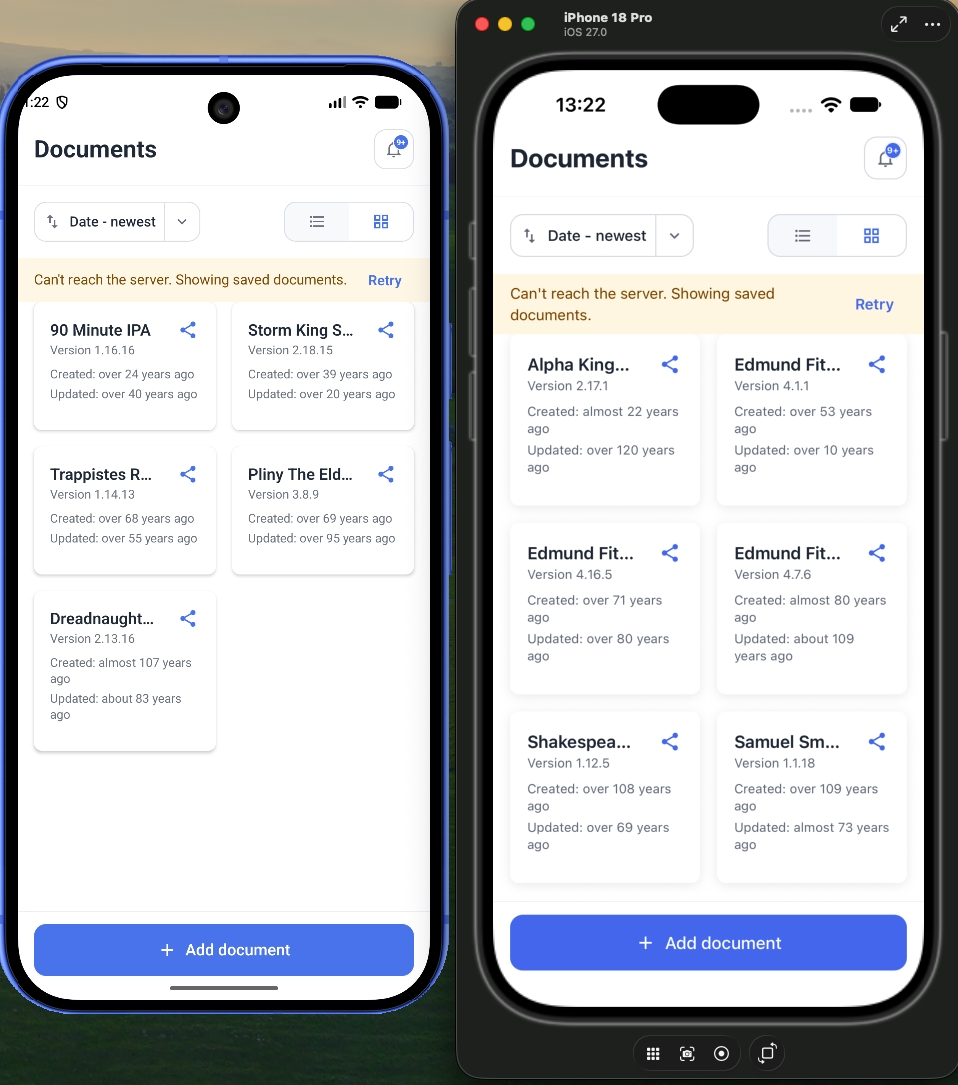
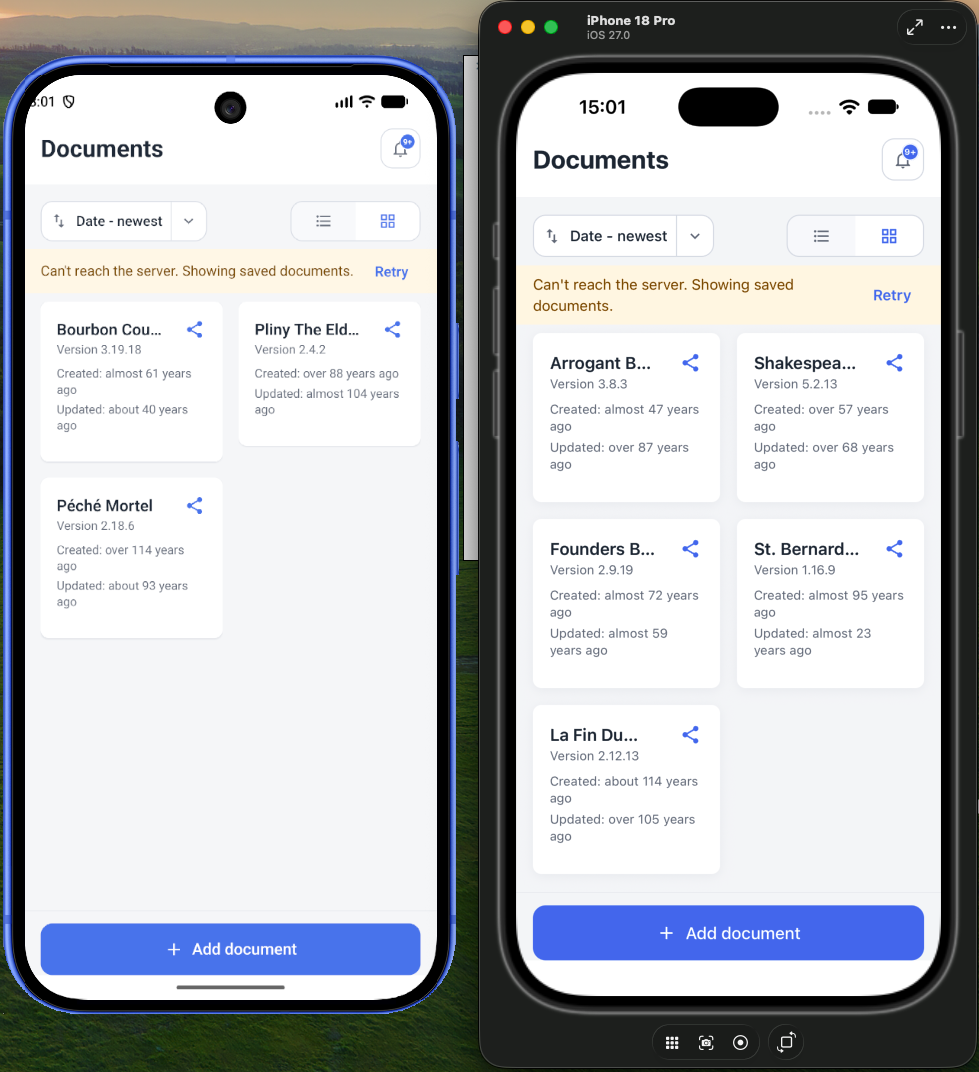
update screenshots in README

diff --git a/README.md b/README.md
@@ -162,6 +162,10 @@ Each screenshot shows the app running in the iOS Simulator and Android Emulator 
 
 ![Grid view on iOS Simulator and Android Emulator](screenshots/grid-view.png)
 
+### Add document sheet
+
+![Add document sheet on iOS Simulator and Android Emulator](screenshots/add-document.png)
+
 ## AI assistance
 
 AI tools were used to draft parts of the design system, UI components, implementation ideas, and this README. The code and documentation were reviewed and edited during development.
